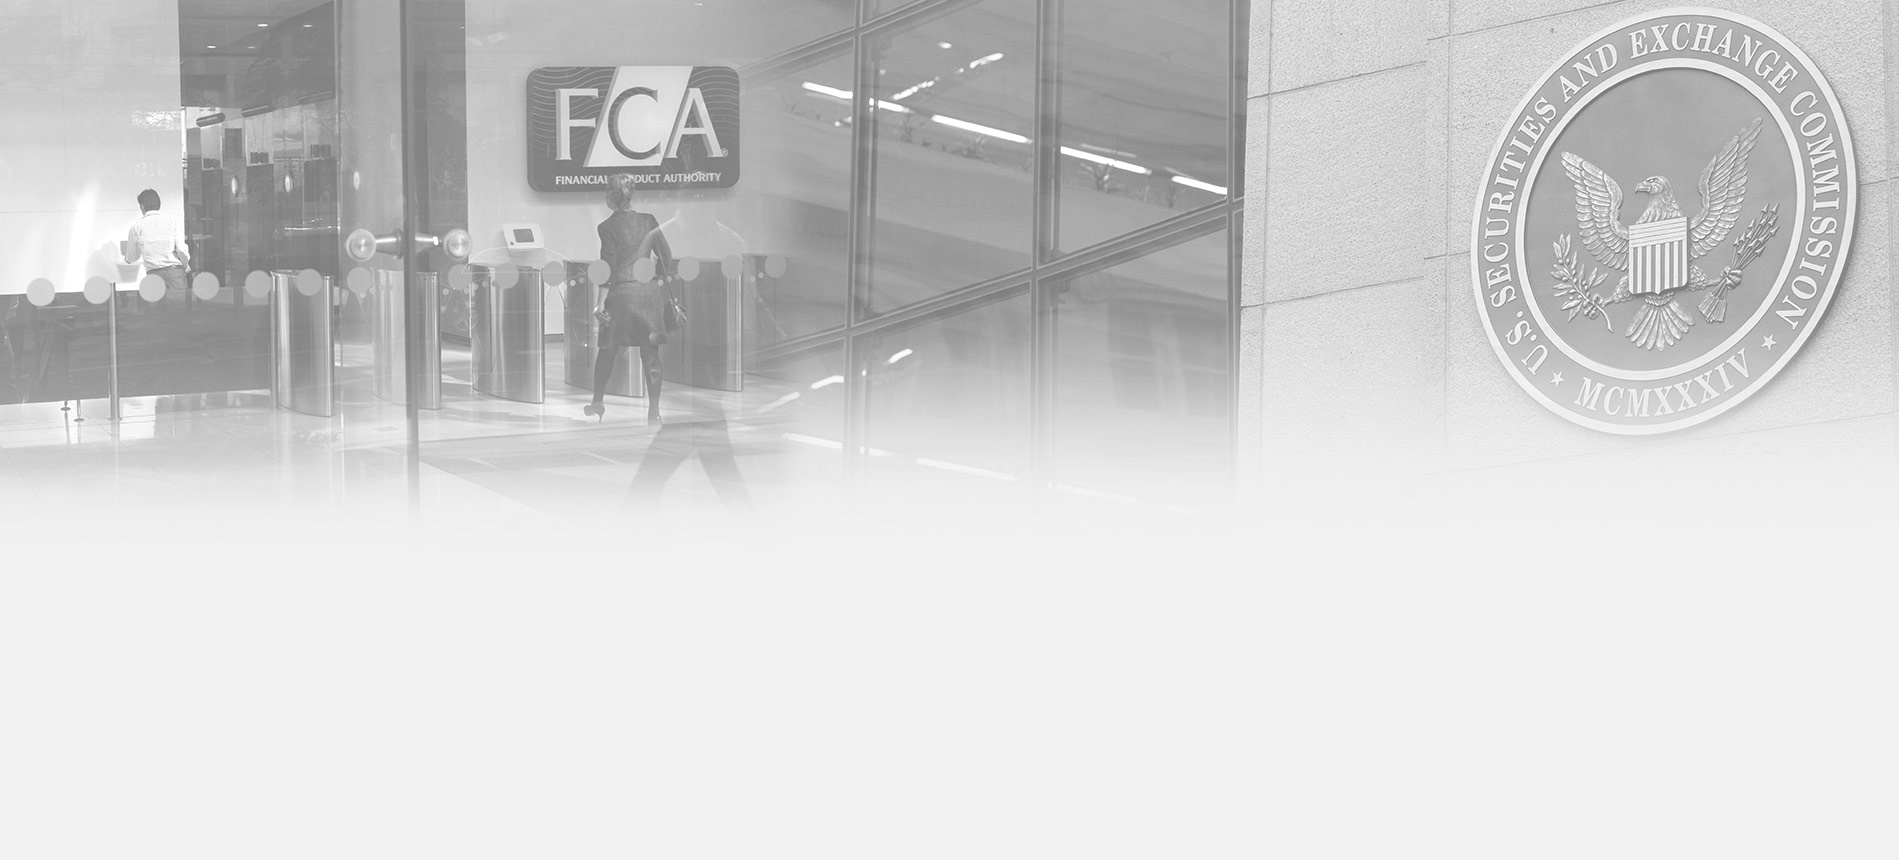
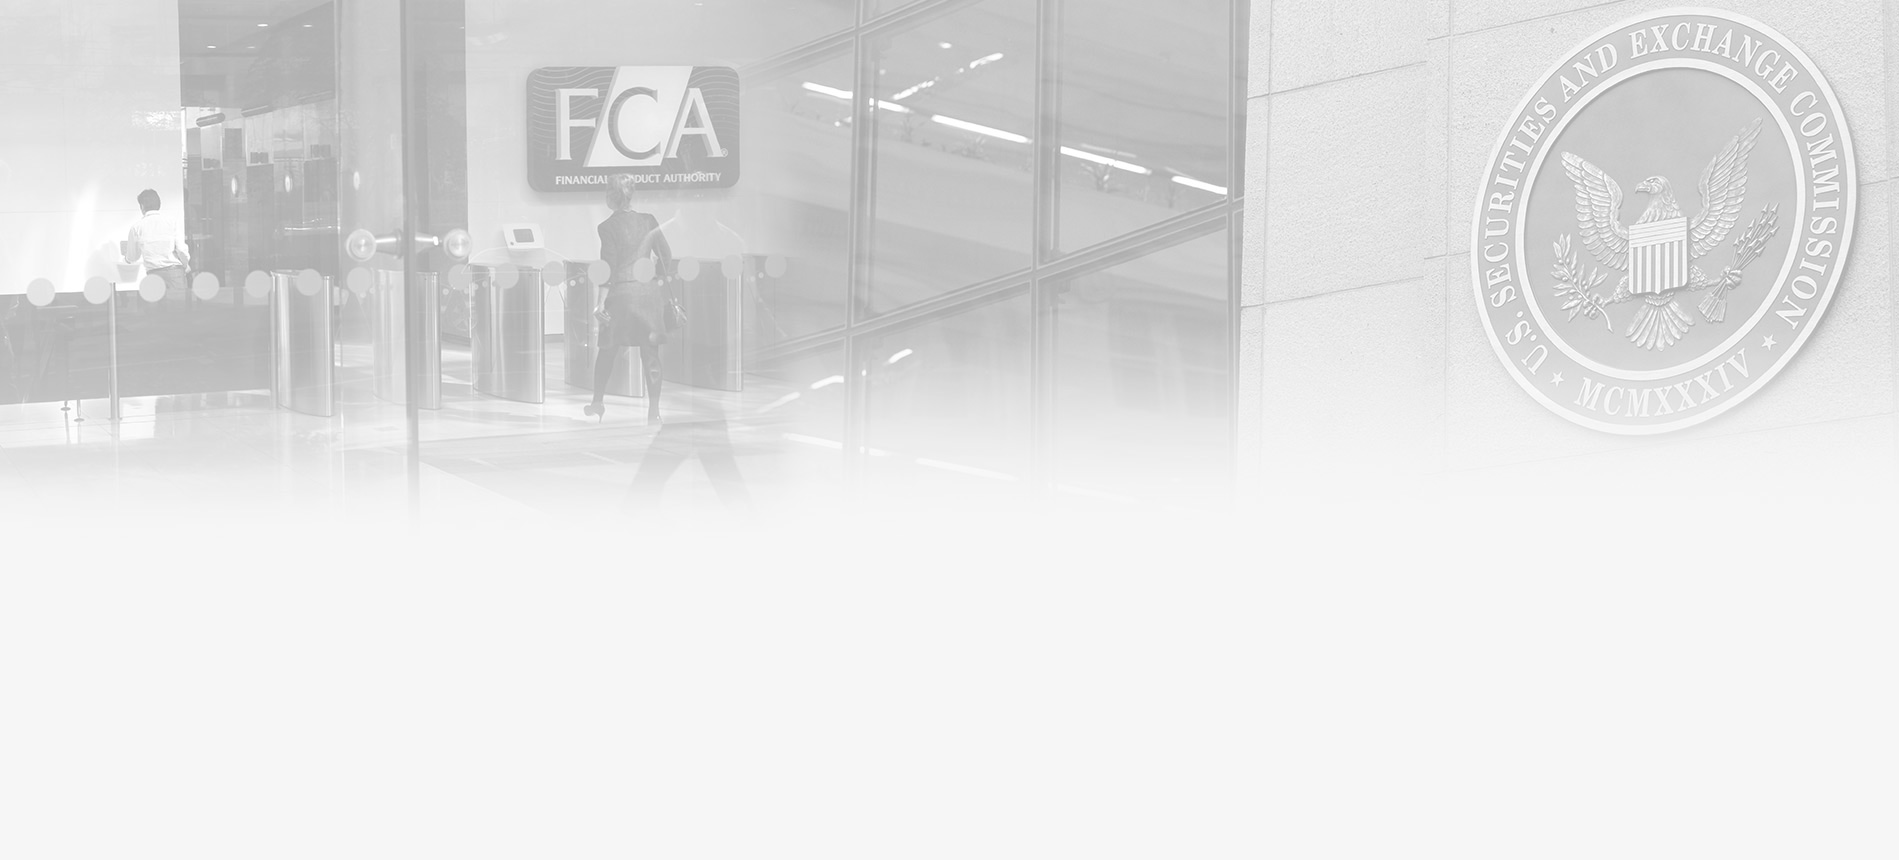
Image lighter

Changed region(s): [[0.0, 0.0, 0.6835, 0.5442], [0.7457, 0.0, 1.0, 0.4535]]

diff --git a/src/assets/scss/app.scss b/src/assets/scss/app.scss
@@ -199,10 +199,10 @@ h1#title{
 .services-background  {background-image: url(../img/bw/working-with-clients-4.jpg);}
 .how-background       {background-image: url(../img/bw/how-we-work-oculus.jpg);}
 .how-contracting-background       {background-image: url(../img/bw/how-we-work-contracting.jpg);}
-.how-methodology-background       {background-image: url(../img/bw/how-we-work-methodology.jpg);}
+.how-methodology-background       {background-image: url(../img/bw/how-we-work-methodology-light.jpg);}
 .how-capability-background       {background-image: url(../img/bw/how-we-work-capability.jpg);}
 .partners-background  {background-image: url(../img/bw/qf-partners-2.png);}
-.bedford-background    {background-image: url(../img/bw/qf-partners-1.png);}
+.bedford-background    {background-image: url(../img/bw/qf-partners-1-light.jpg);}
 .contact-background    {background-image: url(../img/bw/header-5.png);}
 .team-background    {background-image: url(../img/bw/oculus-team.jpg);}
 .providence-background {background-image: url(../img/bw/providence-group-partners-oculus.jpg);}
